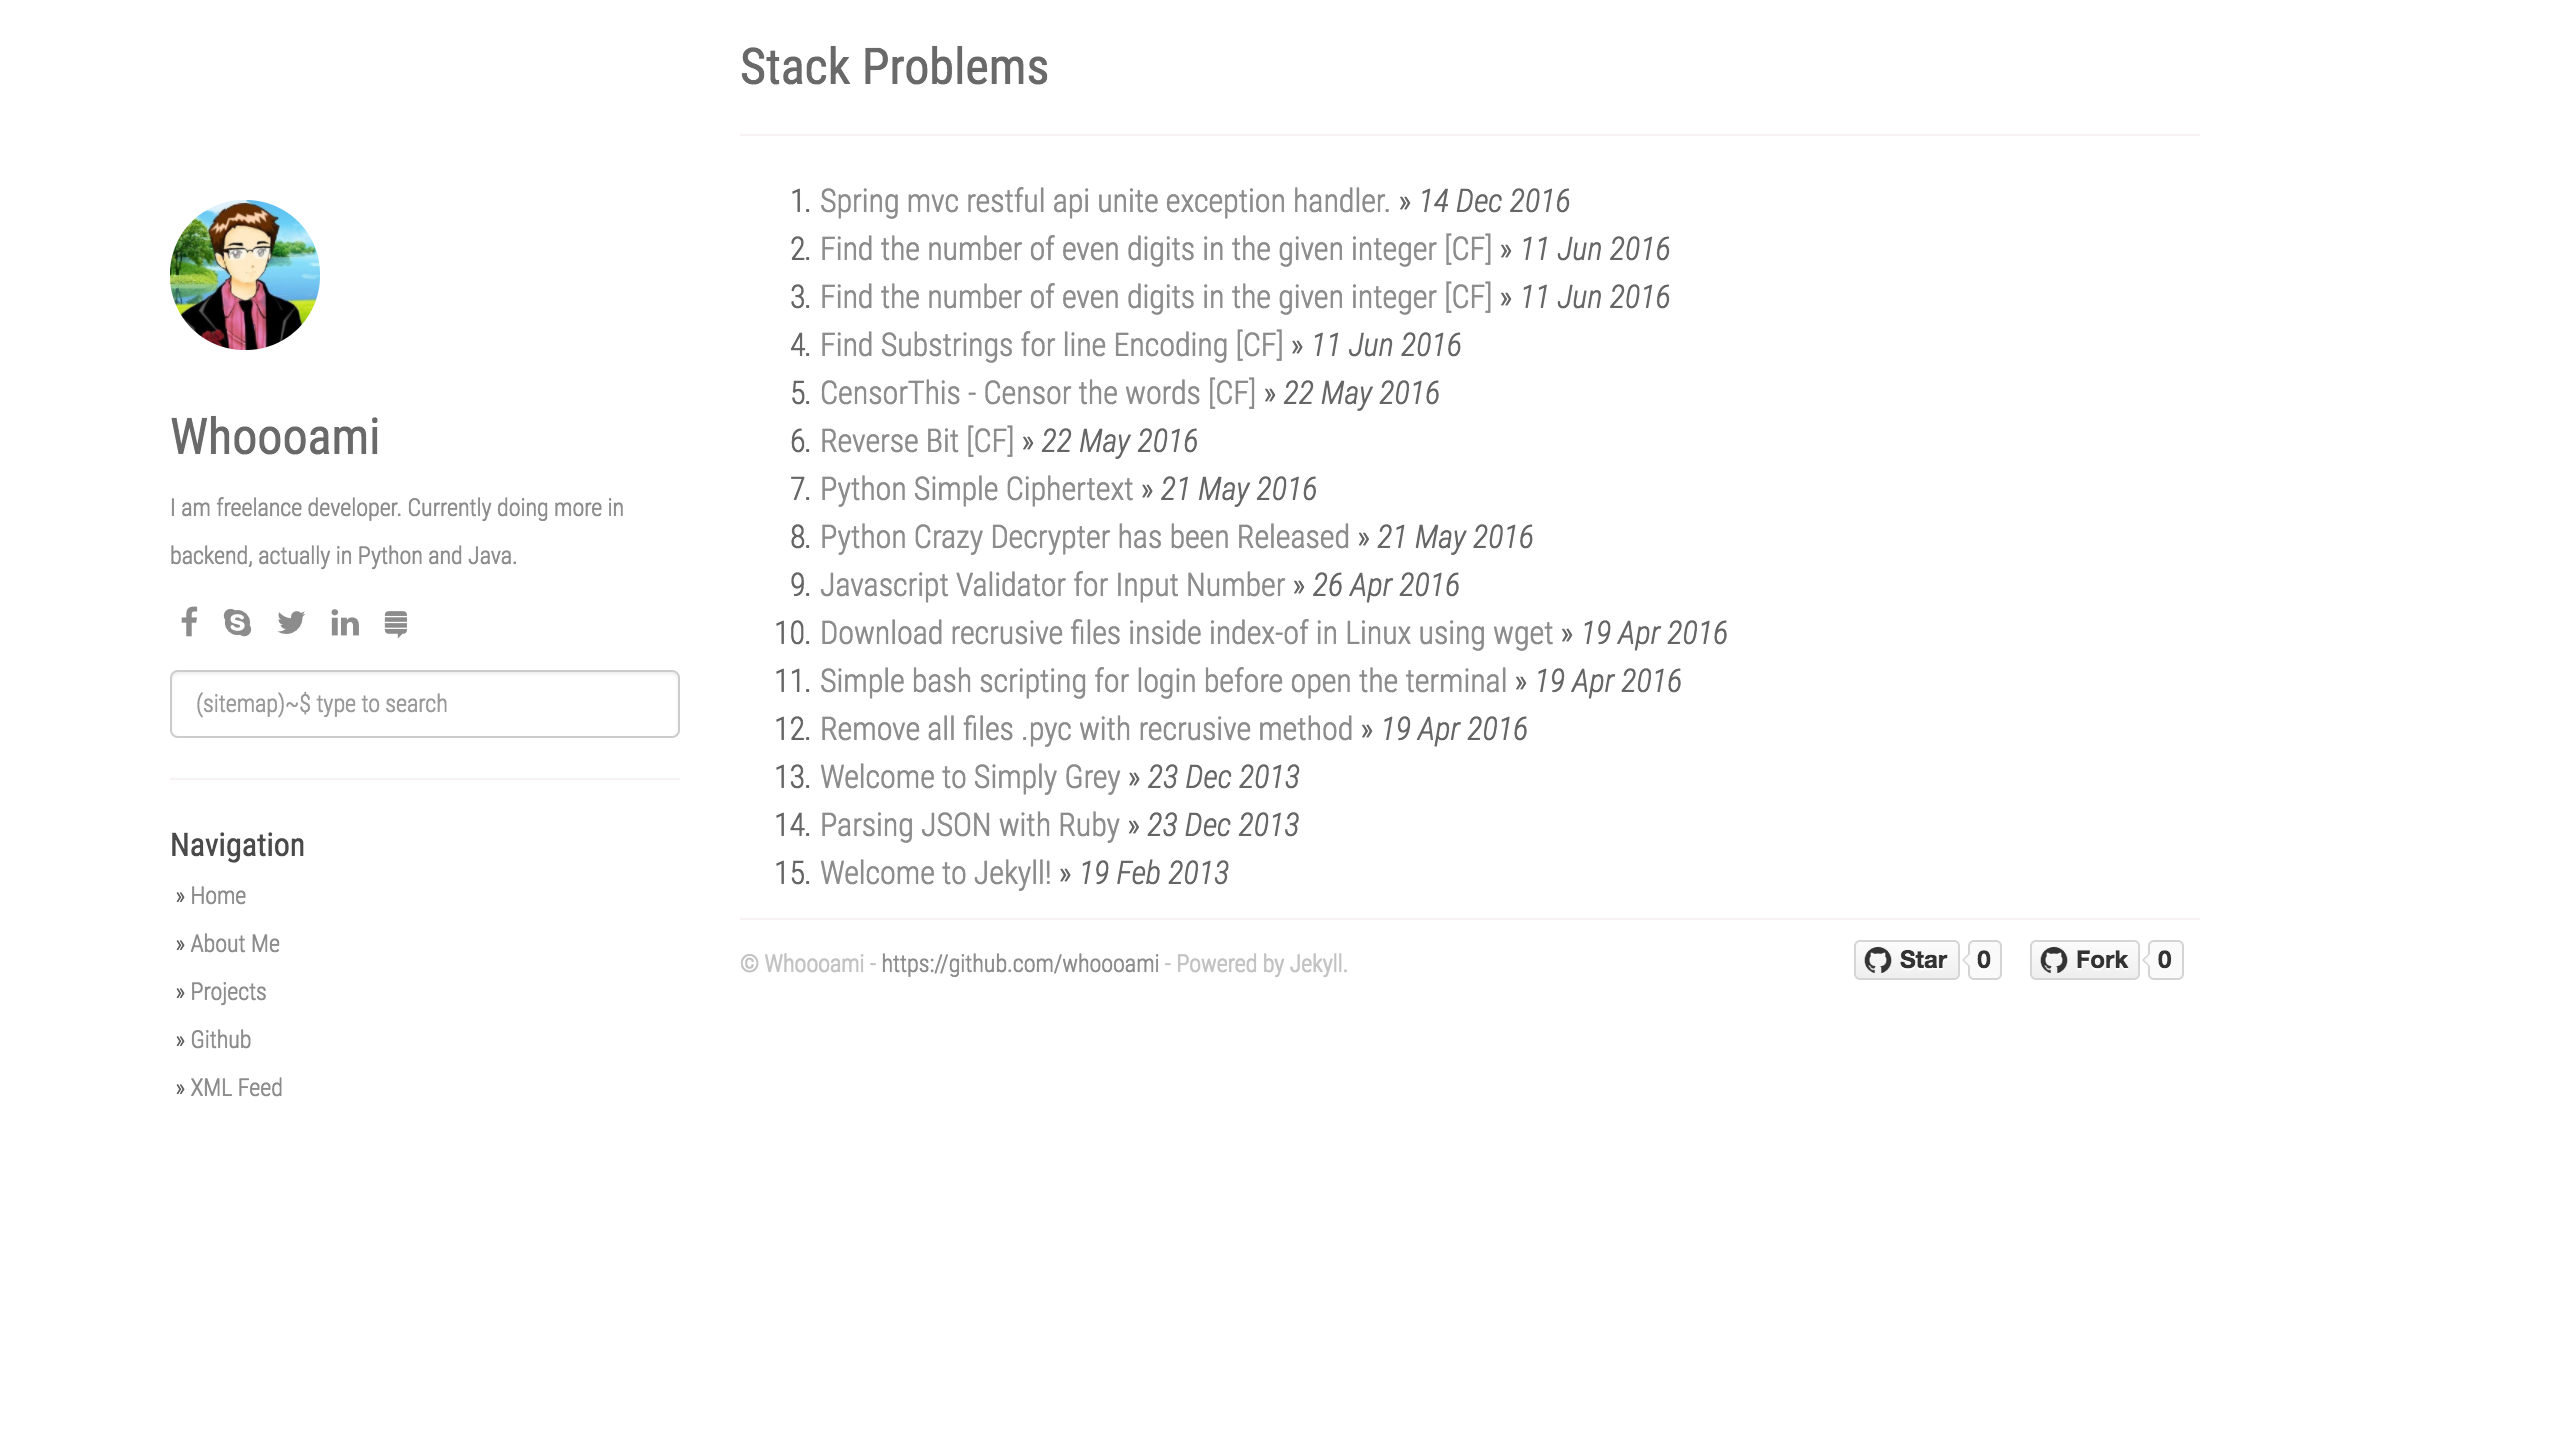
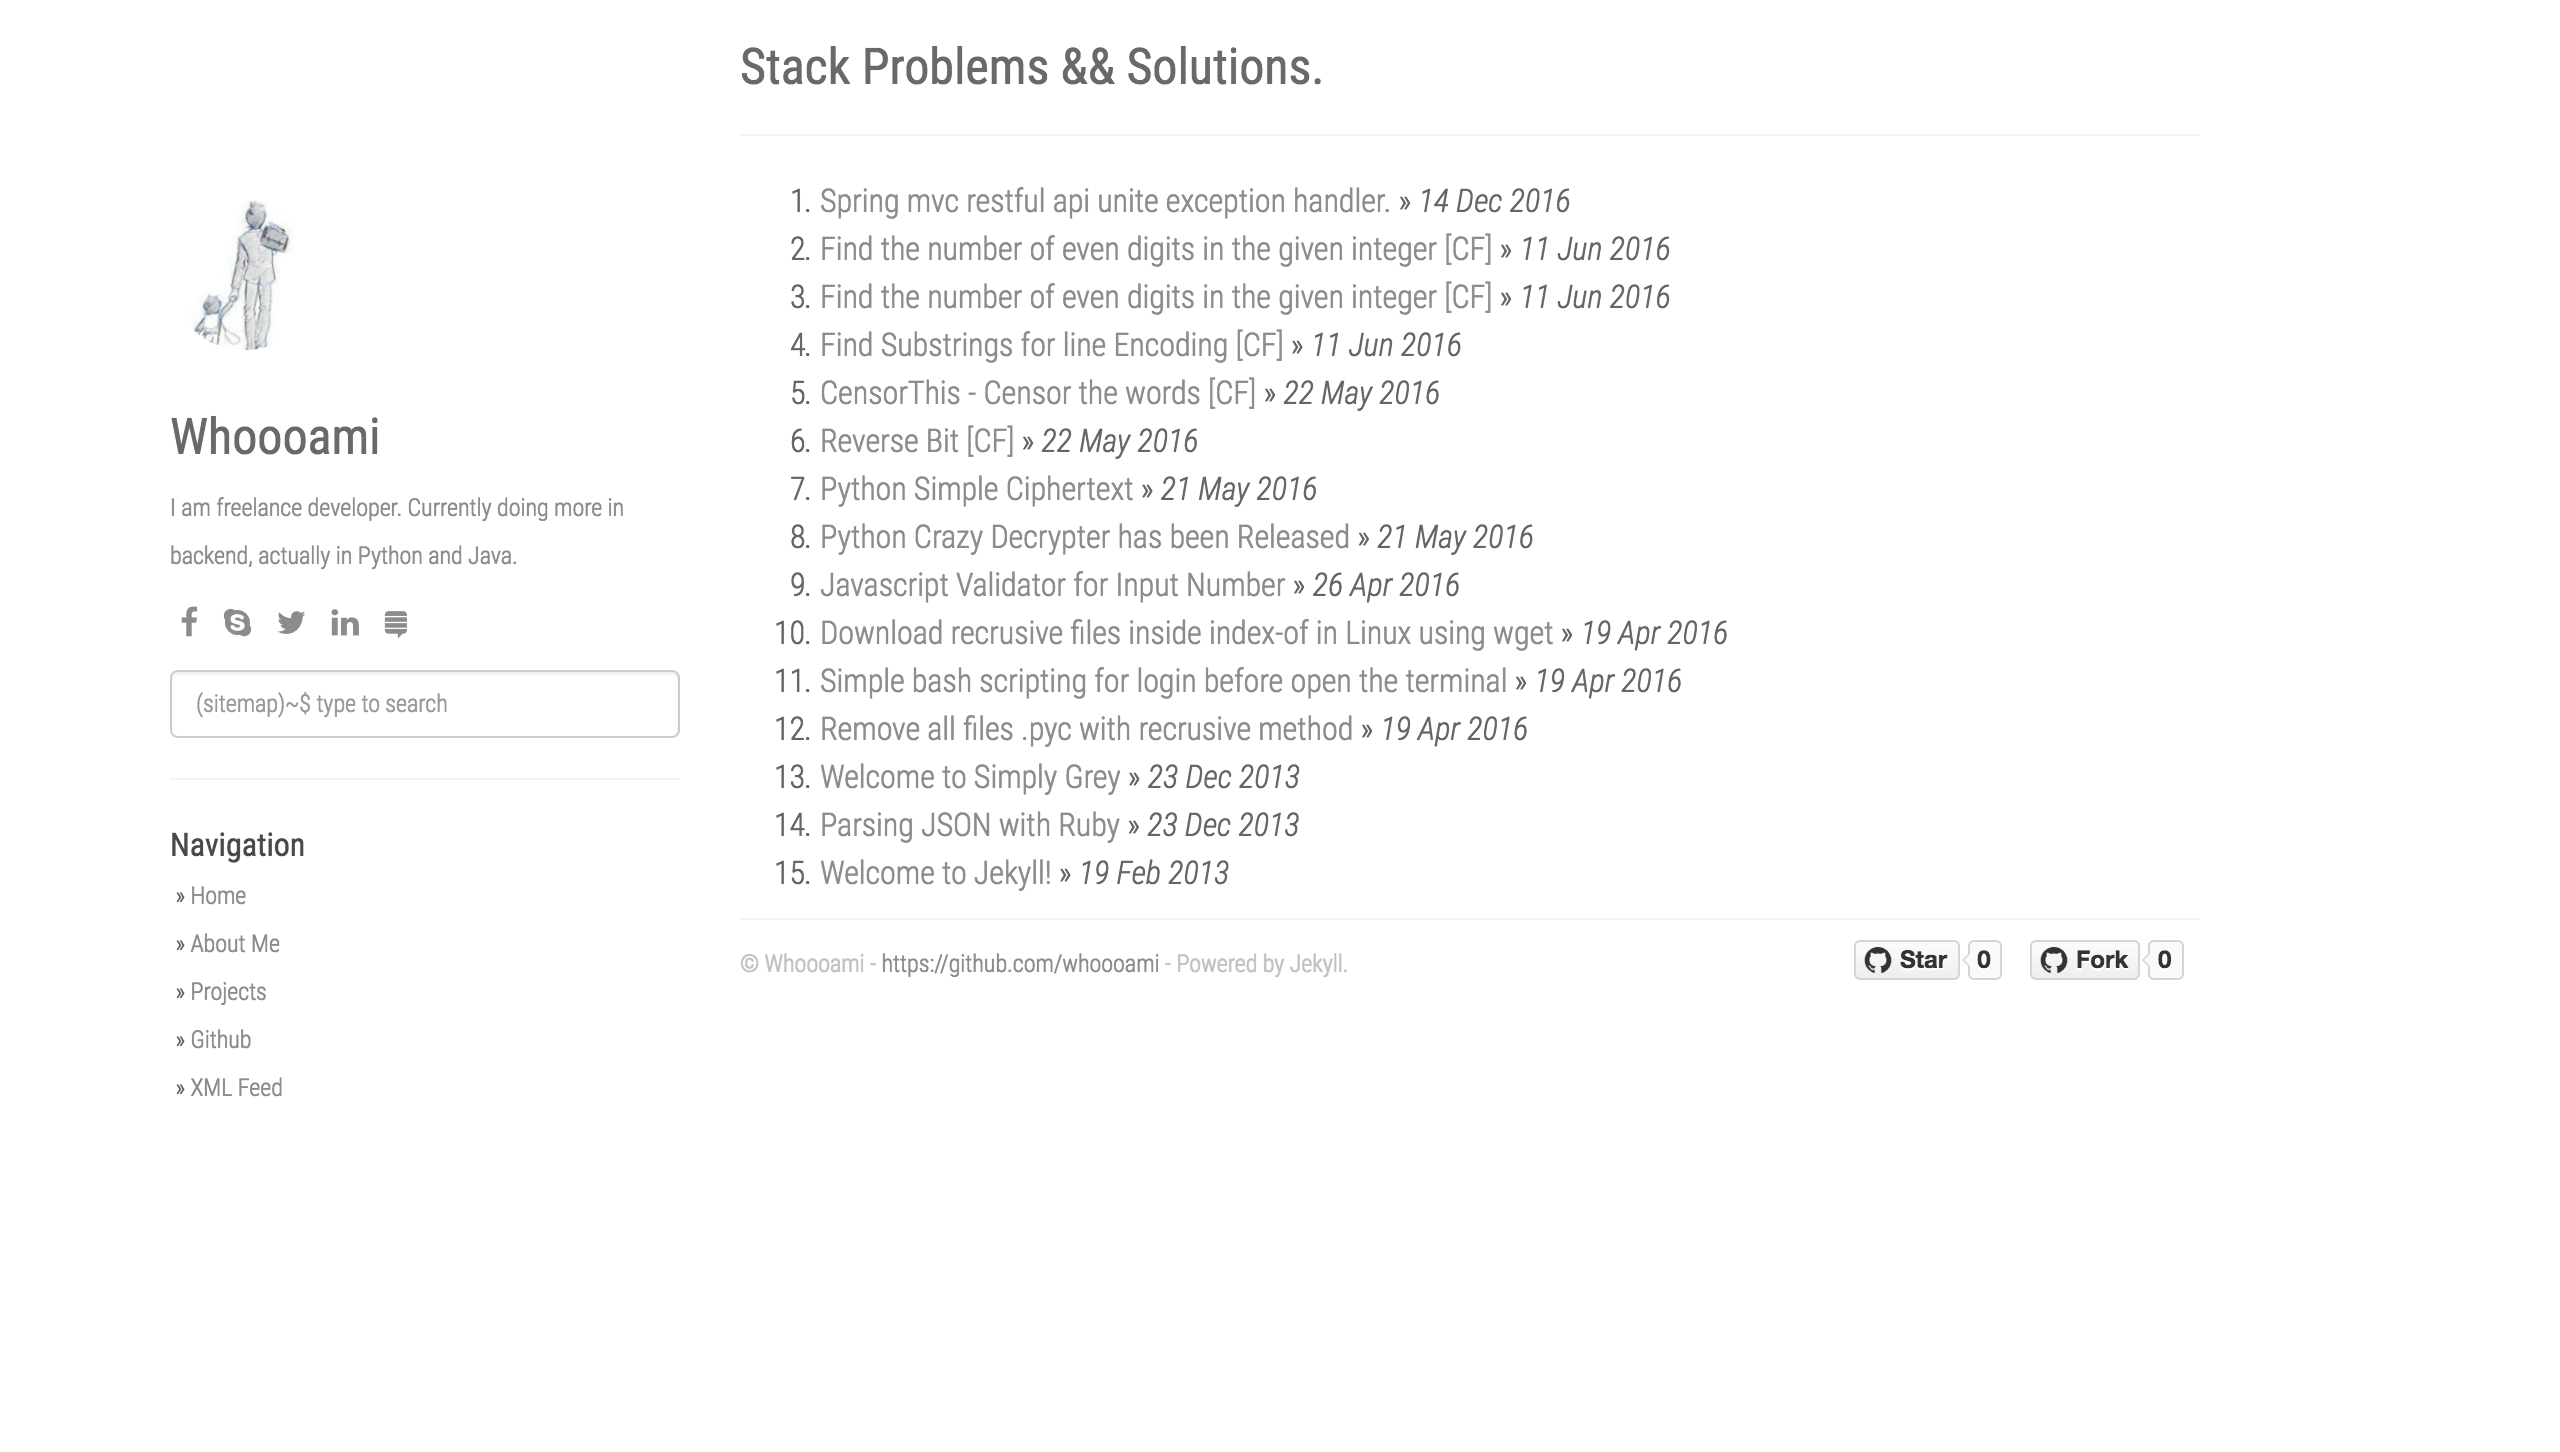
[whoami] - change the title.

Changed region(s): [[0.0625, 0.124, 0.125, 0.2479], [0.4062, 0.031, 0.5312, 0.062]]

diff --git a/_layouts/default.html b/_layouts/default.html
@@ -106,7 +106,7 @@
         <div class="container">
             <div class="col-sm-3">
               <div class="fixed-condition">
-                <a href="/"><img id="about" src="/static/img/avatar.jpg" height="75px" width="75px" /></a>
+                <a href="/"><img id="about" src="/static/img/gavatar.jpeg" height="75px" width="75px" /></a>
                 <h1 class="author-name">{{ site.author }}</h1>
                 {% if site.about %}
                 <div id="about">

diff --git a/index.html b/index.html
@@ -3,7 +3,7 @@ layout: default
 ---
 
 <div id="home">
-    <h1>Stack Problems</h1>
+    <h1>Stack Problems && Solutions.</h1>
     <hr />
     <ol class="posts">
     {% for post in paginator.posts %}

diff --git a/about.md b/about.md
@@ -4,6 +4,6 @@ title: About
 permalink: /about/
 ---
 
-I am freelance developer. Currently doing more in backend, actually in Python and Django.
+I am freelance developer. Currently doing more in backend, actually in Python and Java.
 
-email: agus[at]python.web.id
+email: nothing.whoami[at]gmail.com

diff --git a/README.md b/README.md
@@ -20,6 +20,10 @@
 * Share on social media
 * Google analytics
 
+
+### Build
+* bundle exec jekyll serve --watch
+
 #### Screenshot
 
 ![Screenshot Post Page](https://raw.githubusercontent.com/whoooami/whoooami.github.io/master/static/img/screenshot-post-page.png  "Screenshot Post Page")
